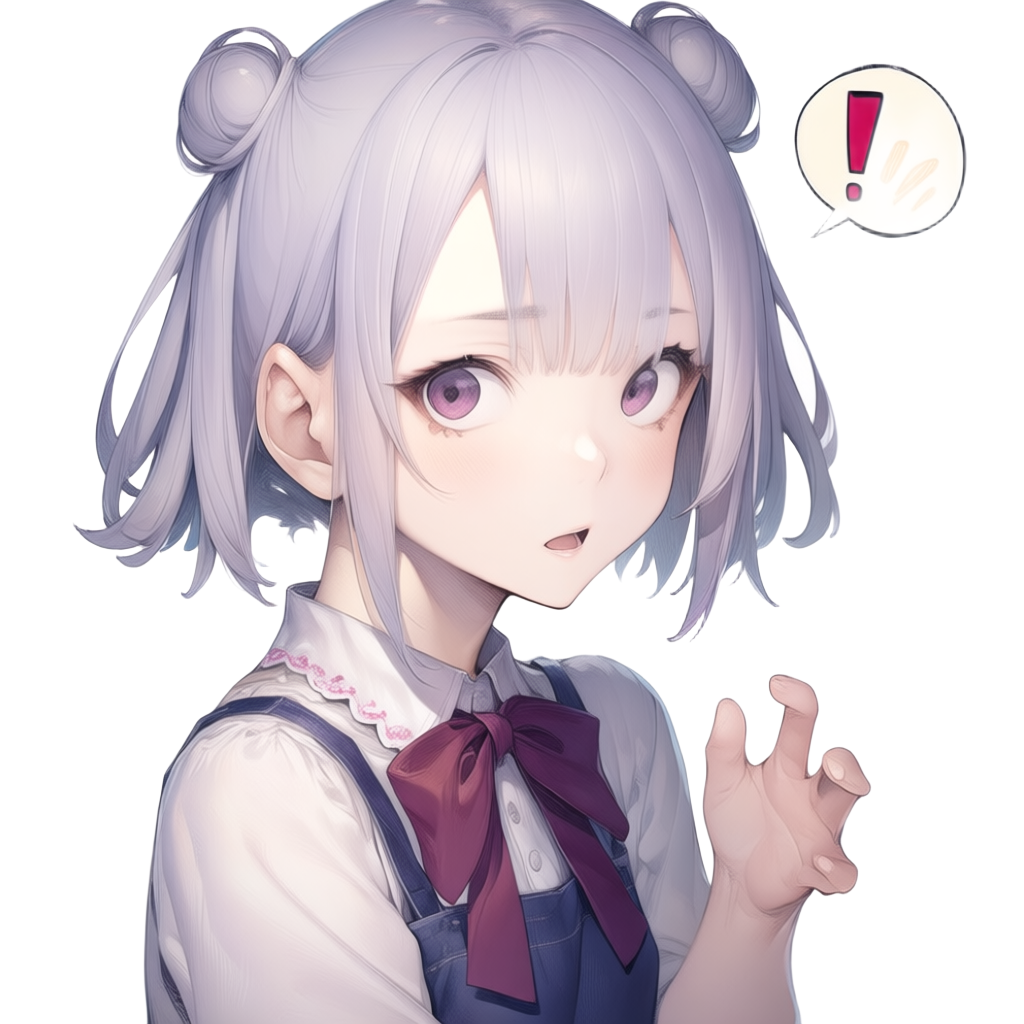
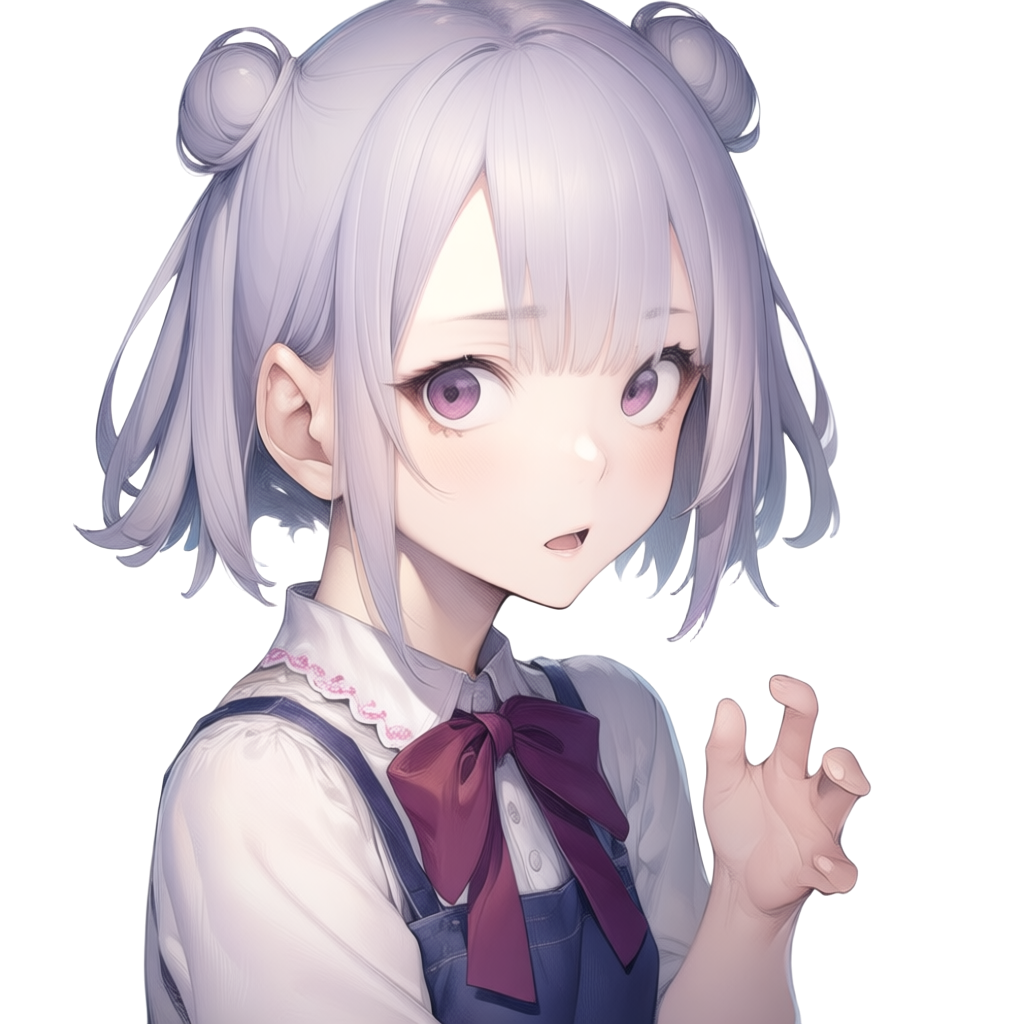
art: prune disconnected reaction symbols

diff --git a/tools/assets/prune_disconnected_alpha.py b/tools/assets/prune_disconnected_alpha.py
@@ -1,0 +1,67 @@
+"""Remove disconnected generated symbols from a review/runtime alpha PNG.
+
+This is intentionally a narrow, explicit post-process for bust-up reaction
+assets.  It keeps the largest connected foreground component and any other
+component above a caller-provided area ratio.  The original ComfyUI render is
+never modified; the derived PNG is the only output that may be replaced.
+"""
+
+from __future__ import annotations
+
+import argparse
+from pathlib import Path
+
+import cv2
+import numpy as np
+from PIL import Image
+
+
+def prune(path: Path, output: Path, min_component_ratio: float) -> dict[str, int | str]:
+    image = Image.open(path).convert("RGBA")
+    rgba = np.array(image)
+    alpha = rgba[:, :, 3]
+    components, labels, stats, _ = cv2.connectedComponentsWithStats(
+        (alpha > 32).astype(np.uint8), connectivity=8
+    )
+    if components <= 1:
+        output.parent.mkdir(parents=True, exist_ok=True)
+        image.save(output)
+        return {"input": str(path), "output": str(output), "components": 0, "removed": 0}
+
+    areas = stats[1:, cv2.CC_STAT_AREA]
+    largest = int(areas.max())
+    keep_labels = {idx + 1 for idx, area in enumerate(areas) if area >= largest * min_component_ratio}
+    kept_mask = np.isin(labels, list(keep_labels))
+    removed_mask = (labels > 0) & ~kept_mask
+    result = rgba.copy()
+    result[:, :, 3] = np.where(kept_mask, alpha, 0).astype(np.uint8)
+    # Do not leave RGB data in removed pixels; this keeps downstream alpha
+    # compositors from sampling the generated symbol's fringe.
+    result[removed_mask, :3] = 0
+    output.parent.mkdir(parents=True, exist_ok=True)
+    Image.fromarray(result, "RGBA").save(output)
+    return {
+        "input": str(path),
+        "output": str(output),
+        "components": int(components - 1),
+        "removed": int(components - 1 - len(keep_labels)),
+    }
+
+
+def main() -> int:
+    parser = argparse.ArgumentParser()
+    parser.add_argument("--input", nargs="+", type=Path, required=True)
+    parser.add_argument("--output-dir", type=Path)
+    parser.add_argument("--in-place", action="store_true")
+    parser.add_argument("--min-component-ratio", type=float, default=0.05)
+    args = parser.parse_args()
+    if args.in_place and args.output_dir:
+        parser.error("use either --in-place or --output-dir")
+    for source in args.input:
+        destination = source if args.in_place else args.output_dir / source.name
+        print(prune(source, destination, args.min_component_ratio))
+    return 0
+
+
+if __name__ == "__main__":
+    raise SystemExit(main())

diff --git a/tests/tools/test_character_pilot_assets.py b/tests/tools/test_character_pilot_assets.py
@@ -4,6 +4,8 @@ import json
 from pathlib import Path
 import unittest
 
+import cv2
+import numpy as np
 from PIL import Image
 
 
@@ -84,6 +86,19 @@ class CharacterPilotAssetTests(unittest.TestCase):
                     alpha.getpixel((cutout.width - 1, cutout.height - 1)),
                 ]
                 self.assertEqual(corners, [0, 0, 0, 0], asset_id)
+
+    def test_clean_reactions_do_not_keep_small_disconnected_symbols(self):
+        for asset_id in ("reaction_discovery", "reaction_deadpan"):
+            path = ROOT / "assets" / "runtime" / "character_pilot" / "derived_alpha" / f"{asset_id}.png"
+            with Image.open(path) as image:
+                alpha = np.array(image.convert("RGBA").getchannel("A"))
+            count, _labels, stats, _centroids = cv2.connectedComponentsWithStats(
+                (alpha > 32).astype(np.uint8), connectivity=8
+            )
+            self.assertGreaterEqual(count, 2, asset_id)
+            areas = stats[1:, cv2.CC_STAT_AREA]
+            largest = int(areas.max())
+            self.assertTrue(np.all(areas >= largest * 0.05), asset_id)
 
 
 if __name__ == "__main__":

diff --git a/docs/art/CHARACTER_REACTION_QA_2026-11-02.md b/docs/art/CHARACTER_REACTION_QA_2026-11-02.md
@@ -30,6 +30,19 @@
 - 追加候補を実装する場合は、生成吹き出し・文字・エフェクトを除去した派生PNGを別パスへ作成し、手指とお団子を再確認してから、専用の論理IDを登録する。
 - `runtime_approved=false` と `visual_match=not_yet_verified` は変更しない。
 
+## 分離成分の除去（2026-11-02）
+
+`reaction_discovery` と `reaction_deadpan` は、BiRefNet後のアルファでキャラクター本体から分離した生成吹き出し／記号成分が残ることを確認した。`tools/assets/prune_disconnected_alpha.py` を明示的な反応画像にだけ適用し、最大の前景成分と面積比5%以上の成分を残す。元のComfyUI画像は変更せず、派生PNGだけを再生成する。Godot側の記号レイヤーは引き続き正本とし、`runtime_approved=false` は維持する。再処理後は派生PNGの連結成分検査も行う。
+
+BiRefNetを再実行した場合は、次の明示的な後処理を再度実行する。
+
+```powershell
+python tools/assets/prune_disconnected_alpha.py `
+  --input assets/runtime/character_pilot/derived_alpha/reaction_discovery.png `
+          assets/runtime/character_pilot/derived_alpha/reaction_deadpan.png `
+  --in-place
+```
+
 ## `reaction_043` パイロット接続確認
 
 BiRefNetで生成吹き出しを除去した派生画像を `assets/runtime/character_pilot/derived_alpha/reaction_milestone_calm.png`
